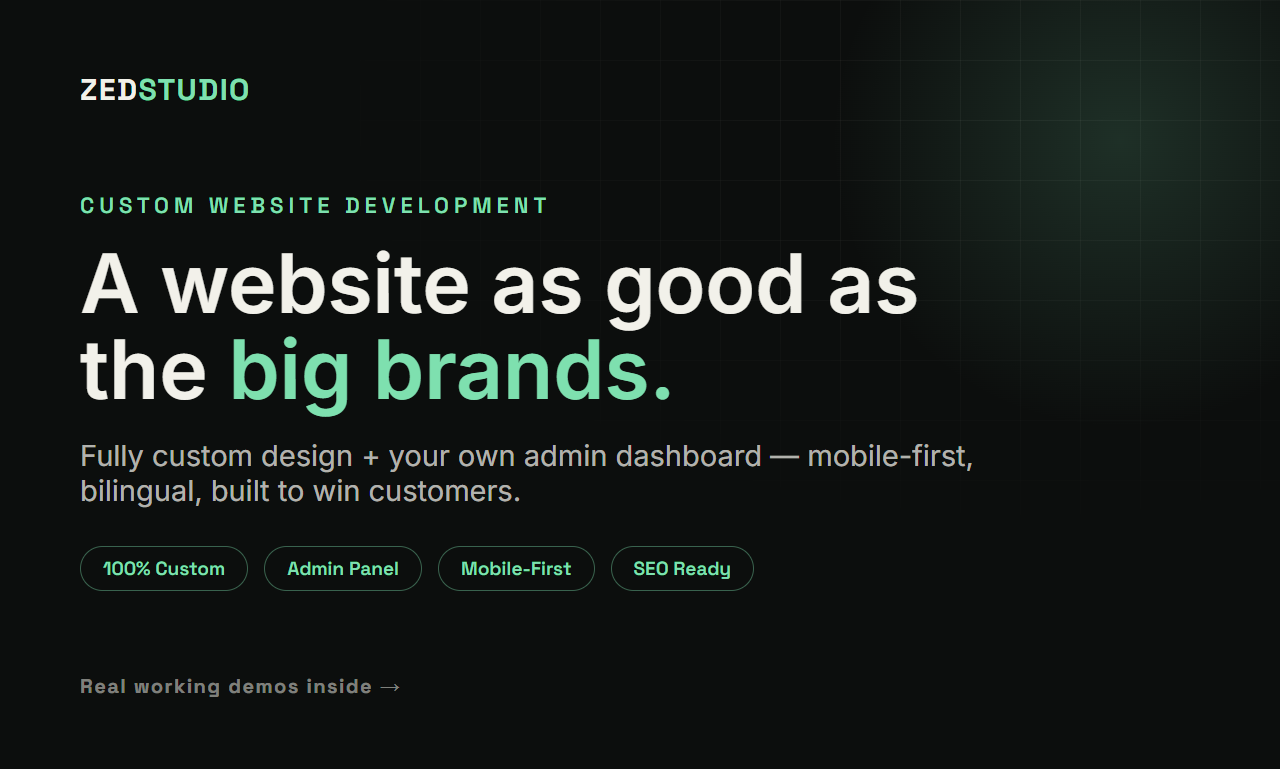
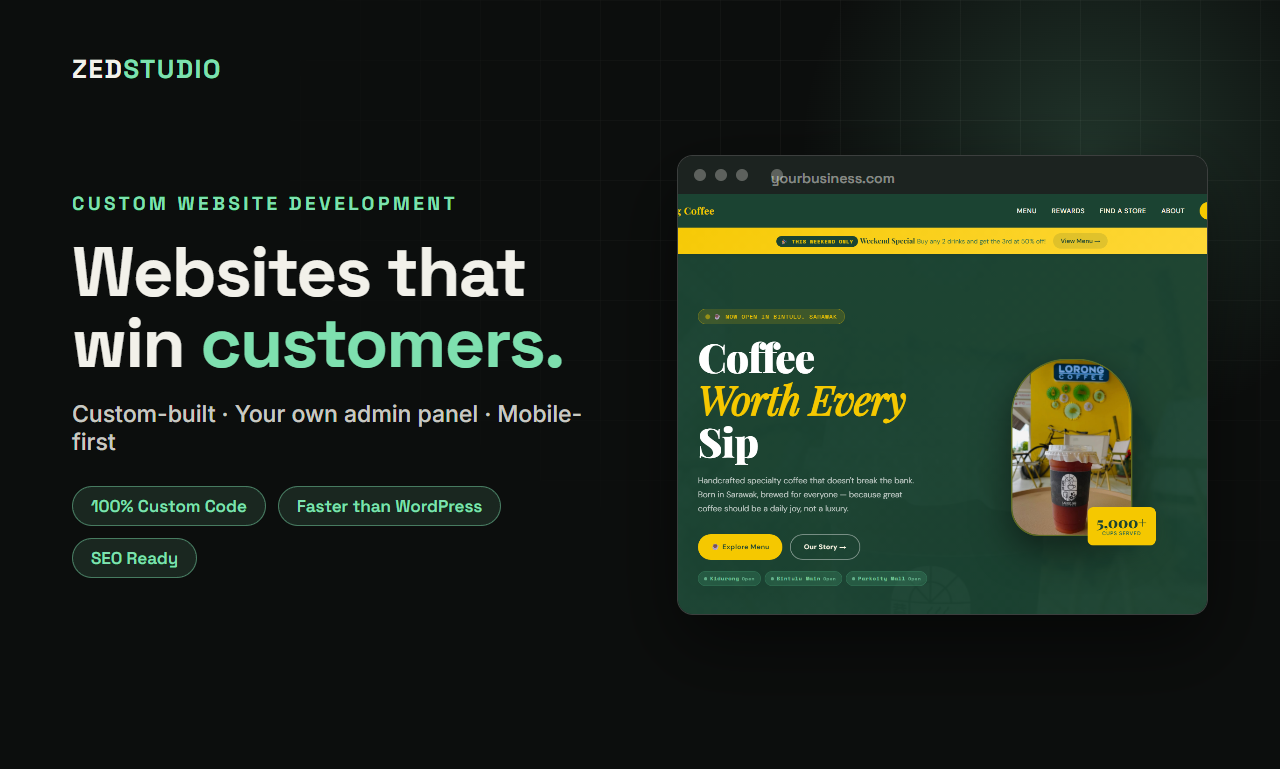
docs(sales): Fiverr competitor analysis, punchier cover, image strategy
Added competitor table + positioning (custom-code lane vs platform crowd); keyword-rich title; rebuilt cover (bold headline + browser mockup proof, high contrast); image guidance incl. add-your-face tip (2x CTR) and Fiverr specs.

diff --git a/sales/fiverr/gig-images.html b/sales/fiverr/gig-images.html
@@ -8,7 +8,7 @@
   body { font-family:'Inter',sans-serif; }
   .slide {
     width:1280px; height:769px; background:#0c0e0d; color:#f2f1ea;
-    position:relative; overflow:hidden; padding:70px 80px;
+    position:relative; overflow:hidden; padding:64px 72px;
   }
   .slide::before {
     content:''; position:absolute; inset:0;
@@ -16,25 +16,33 @@
       linear-gradient(rgba(242,241,234,0.055) 1px, transparent 1px),
       linear-gradient(90deg, rgba(242,241,234,0.055) 1px, transparent 1px);
     background-size:60px 60px;
-    -webkit-mask-image:radial-gradient(ellipse 75% 75% at 80% 15%, #000, transparent 72%);
-    mask-image:radial-gradient(ellipse 75% 75% at 80% 15%, #000, transparent 72%);
+    -webkit-mask-image:radial-gradient(ellipse 80% 80% at 78% 20%, #000, transparent 72%);
+    mask-image:radial-gradient(ellipse 80% 80% at 78% 20%, #000, transparent 72%);
   }
   .slide::after {
-    content:''; position:absolute; top:-160px; right:-140px; width:600px; height:600px; border-radius:50%;
-    background:radial-gradient(circle, rgba(126,224,175,0.16), transparent 68%);
+    content:''; position:absolute; top:-160px; right:-120px; width:620px; height:620px; border-radius:50%;
+    background:radial-gradient(circle, rgba(126,224,175,0.18), transparent 66%);
   }
-  .logo { position:relative; font-family:'Space Grotesk',sans-serif; font-weight:700; font-size:30px; letter-spacing:1.5px; }
+  .logo { position:relative; font-family:'Space Grotesk',sans-serif; font-weight:700; font-size:28px; letter-spacing:1.5px; }
   .logo em { font-style:normal; color:#7ee0af; }
   .disp { font-family:'Space Grotesk',sans-serif; letter-spacing:-1px; }
   .accent { color:#7ee0af; }
 
-  /* Slide 1 — cover */
-  .s1 { display:flex; flex-direction:column; justify-content:space-between; }
-  .s1 .eyebrow { position:relative; font-family:'Space Grotesk',sans-serif; font-weight:600; font-size:22px; letter-spacing:5px; text-transform:uppercase; color:#7ee0af; }
-  .s1 h1 { position:relative; font-size:82px; font-weight:700; line-height:1.04; margin-top:22px; }
-  .s1 .sub { position:relative; font-size:29px; color:rgba(242,241,234,0.72); margin-top:26px; max-width:900px; }
-  .s1 .tags { position:relative; display:flex; gap:16px; margin-top:38px; }
-  .s1 .tag { font-family:'Space Grotesk',sans-serif; font-weight:600; font-size:19px; border:1.5px solid rgba(126,224,175,0.4); color:#7ee0af; padding:9px 22px; border-radius:99px; }
+  /* Slide 1 — COVER (bold, high-contrast, proof mockup) */
+  .s1 { display:flex; align-items:center; }
+  .s1logo { position:absolute; top:52px; left:72px; font-family:'Space Grotesk',sans-serif; font-weight:700; font-size:26px; letter-spacing:1.5px; z-index:3; }
+  .s1logo em { font-style:normal; color:#7ee0af; }
+  .s1grid { position:relative; z-index:2; display:grid; grid-template-columns:1.02fr 0.98fr; gap:52px; width:100%; align-items:center; }
+  .s1 .eyebrow { font-family:'Space Grotesk',sans-serif; font-weight:700; font-size:19px; letter-spacing:3.5px; text-transform:uppercase; color:#7ee0af; margin-bottom:20px; }
+  .s1 h1 { font-family:'Space Grotesk',sans-serif; font-weight:700; font-size:70px; line-height:1.02; letter-spacing:-1.5px; }
+  .s1 .sub { font-size:23px; color:rgba(242,241,234,0.82); margin-top:22px; font-weight:500; }
+  .s1 .tags { display:flex; flex-wrap:wrap; gap:12px; margin-top:30px; }
+  .s1 .tag { font-family:'Space Grotesk',sans-serif; font-weight:600; font-size:17px; background:rgba(126,224,175,0.12); border:1.5px solid rgba(126,224,175,0.45); color:#7ee0af; padding:8px 18px; border-radius:99px; }
+  .mock { border-radius:16px; overflow:hidden; border:1px solid rgba(242,241,234,0.18); box-shadow:0 30px 70px rgba(0,0,0,0.5); background:#141918; }
+  .mockbar { height:38px; background:#1c2320; display:flex; align-items:center; gap:9px; padding:0 16px; }
+  .mockbar span { width:12px; height:12px; border-radius:50%; background:rgba(242,241,234,0.3); }
+  .mockbar .url { margin-left:14px; font-size:14px; color:rgba(242,241,234,0.5); font-family:'Space Grotesk',sans-serif; }
+  .mock img { width:100%; height:420px; object-fit:cover; object-position:top; display:block; }
 
   /* Slide 2 — what you get */
   .s2 h2 { position:relative; font-size:56px; font-weight:700; }
@@ -60,14 +68,19 @@
 <body>
 
 <div class="slide s1" id="s1">
-  <div class="logo">ZED<em>STUDIO</em></div>
-  <div>
-    <div class="eyebrow">Custom Website Development</div>
-    <h1>A website as good as<br/>the <span class="accent">big brands.</span></h1>
-    <p class="sub">Fully custom design + your own admin dashboard — mobile-first, bilingual, built to win customers.</p>
-    <div class="tags"><span class="tag">100% Custom</span><span class="tag">Admin Panel</span><span class="tag">Mobile-First</span><span class="tag">SEO Ready</span></div>
+  <span class="s1logo">ZED<em>STUDIO</em></span>
+  <div class="s1grid">
+    <div class="s1text">
+      <div class="eyebrow">Custom Website Development</div>
+      <h1>Websites that<br/>win <span class="accent">customers.</span></h1>
+      <p class="sub">Custom-built · Your own admin panel · Mobile-first</p>
+      <div class="tags"><span class="tag">100% Custom Code</span><span class="tag">Faster than WordPress</span><span class="tag">SEO Ready</span></div>
+    </div>
+    <div class="mock">
+      <div class="mockbar"><span></span><span></span><span></span><span class="url">yourbusiness.com</span></div>
+      <img src="../../images/lorong-coffee.png" alt="Website example"/>
+    </div>
   </div>
-  <div class="logo" style="font-size:20px; color:rgba(242,241,234,0.5)">Real working demos inside →</div>
 </div>
 
 <div class="slide s2" id="s2">

diff --git a/sales/FIVERR-GIG-KIT.md b/sales/FIVERR-GIG-KIT.md
@@ -11,18 +11,36 @@ Your beatbox gig and this can live on the **same account** (Fiverr allows up to 
 
 ---
 
+## Competitor analysis — who you're up against (July 2026)
+From live search for "website":
+
+| Competitor | Angle | "From" | Reviews |
+|---|---|---|---|
+| Yeasir Arafat | Full-stack PHP/Laravel dev | $100 | 266 ⭐5.0 |
+| Abdul Motin | WordPress (design/build/redesign/clone) | $85 | 290 ⭐4.9 |
+| Roman | Shopify store + dropshipping | $80 | 78 ⭐4.9 |
+| Shohaib Alam | WordPress + Elementor | $50 | 214 ⭐5.0 |
+| Brittney P | Squarespace design | $30 | 25 (Fiverr's Choice) |
+
+**What it means for you:**
+- The "From $30–100" is the **Basic anchor** — their real money is in Standard/Premium ($200–800). Don't panic at the low numbers.
+- **Most sell by platform** (WordPress, Shopify, Squarespace) — huge search terms but brutally crowded with 200+ review veterans. **You compete in the less-crowded "custom code" lane** and turn it into a benefit: *faster, lighter, no monthly plugin fees, no WordPress bloat.*
+- You **can't out-review veterans** yet, so you win on: sharper thumbnail, honest custom work, real admin-panel demos they can't show, and fast replies.
+- **Your pricing ($55/$145/$295) deliberately undercuts the $200–800 premium tier** while sitting above the $30 template floor — the affordable-volume sweet spot.
+
 ## GIG 1 — Custom Business Website (your main gig)
 
 ### Gig title  *(field: "I will ___", max 80 characters)*
+Competitors keyword-stuff their titles ("design, build, redesign, develop…") for search coverage — do the same. Recommended:
 ```
-I will design and develop a modern custom business website with admin panel
+I will design, build or redesign a fast custom business website
 ```
-Alternatives if you want to test:
+Alternatives to test:
 ```
-I will build a custom responsive business website that gets you customers
+I will develop a modern custom website with admin panel for your business
 ```
 ```
-I will create a professional bilingual website for your small business
+I will build a responsive business website that gets you more customers
 ```
 
 ### Category
@@ -138,13 +156,21 @@ A: I design your homepage first and refine it with your feedback before building
 
 ---
 
-## Making your gig images (already generated for you)
-Fiverr shows 3 gallery images. Upload these from `sales/fiverr/`:
-1. `fiverr-cover.png` — the main cover (hook + brand)
-2. `fiverr-what-you-get.png` — features / what's included
-3. `fiverr-demos.png` — your 3 real demo sites as proof
+## Your gig images (already generated for you)
+Fiverr specs: **1280 × 769 px**, JPG/PNG, keep key text/faces near the centre. Upload these from `sales/fiverr/` in this order:
+1. `fiverr-cover.png` — bold hook + a real website shown in a browser frame (this is the thumbnail buyers see in search — it must earn the click)
+2. `fiverr-what-you-get.png` — the 6 things included
+3. `fiverr-demos.png` — your 3 real sites as proof
 
-Tip: a short gig **video** (even 20s screen-recording of you scrolling a demo + editing the admin panel) can lift orders a lot — record it on your phone later.
+### The one upgrade that beats every competitor: add your face
+Research is clear — on Fiverr, a **cover with a real human face + ≤5 words of bold text gets roughly double the clicks**; "beautiful but faceless" designs lose. Every top competitor in your screenshot uses a headshot. Two easy options:
+- **Best:** send me a clear photo of you (plain background, looking slightly toward the left) and I'll composite it into the cover's right side beside the text. Free, 10 minutes.
+- **DIY:** open the cover in Canva, drop your photo on the right, keep the bold text on the left.
+
+Even without a face, the current cover is strong — but the face is the single highest-ROI change, so do it before you scale.
+
+### Gig video (do this after your first order)
+A 20–40s screen-recording — scroll a demo, then edit a price in the admin panel and show it change live — can lift orders a lot. Record it on your phone; no fancy editing needed.
 
 ---
 
